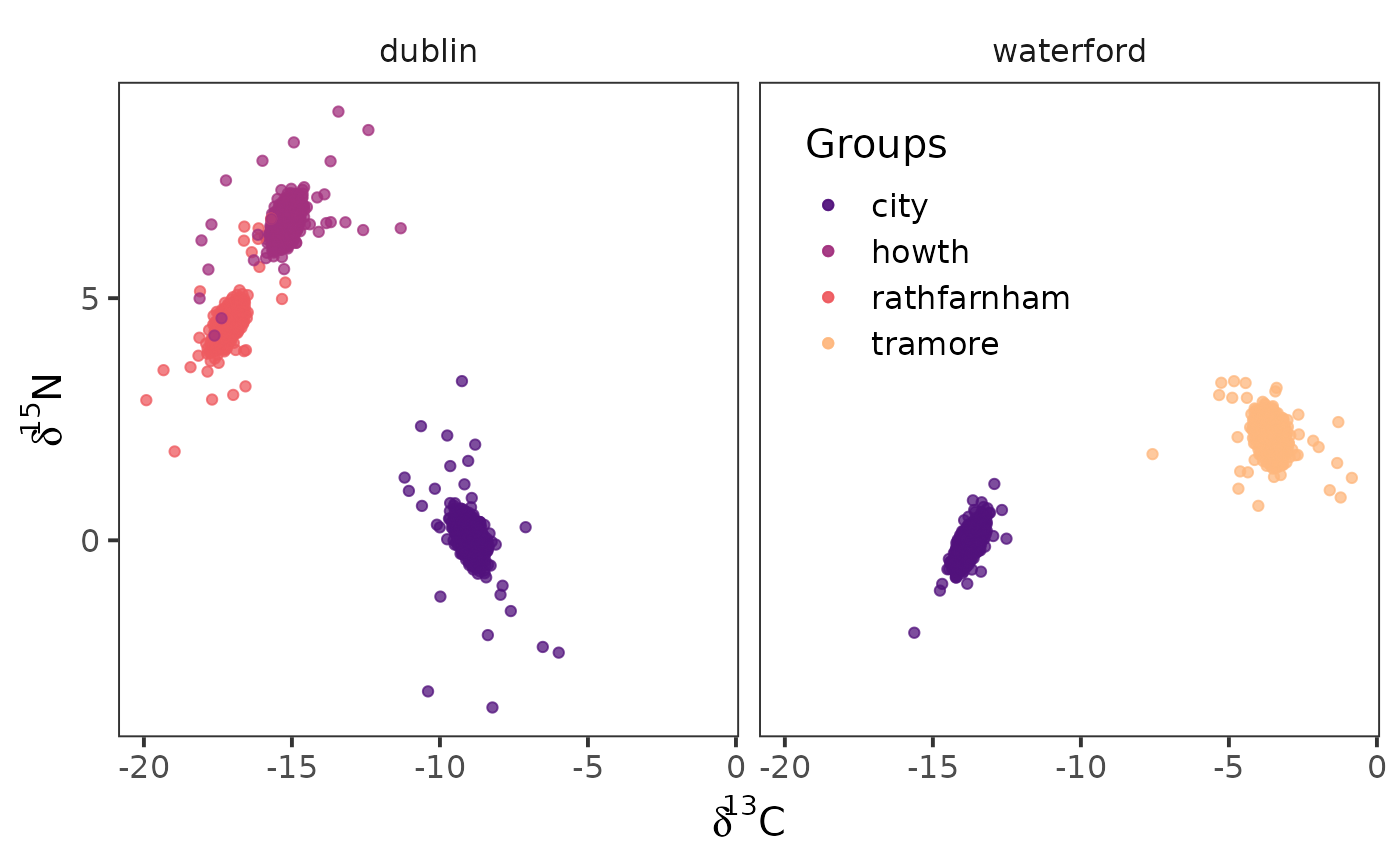
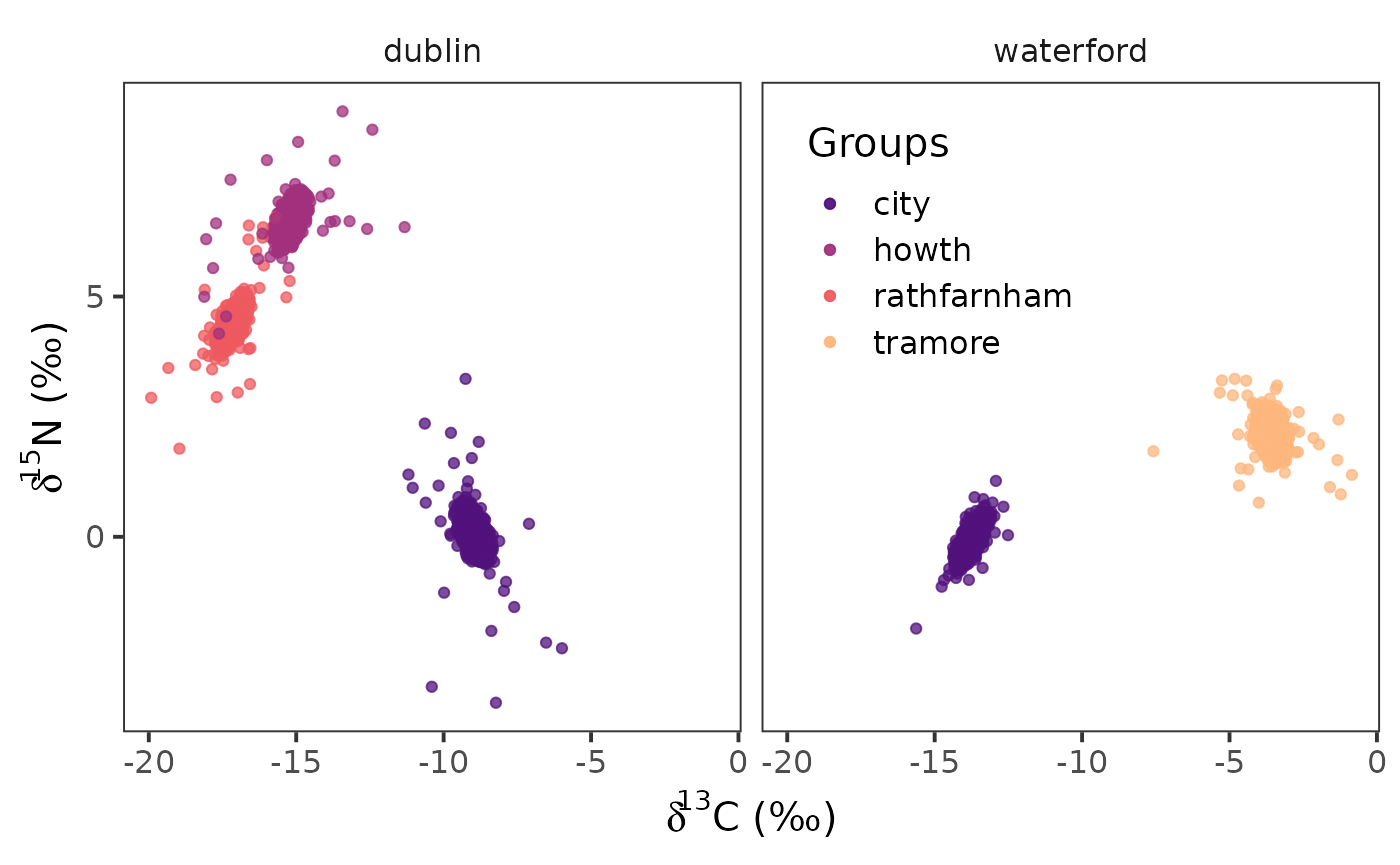
Deploying to gh-pages from @ benjaminhlina/nichetools@8fdd226af36e10927101df616561790b8ef6ce83 🚀

diff --git a/articles/using-nichetools-with-the-package-SIBER.html b/articles/using-nichetools-with-the-package-SIBER.html
@@ -61,7 +61,7 @@
                         <h4 data-toc-skip class="author">Benjamin L.
 Hlina</h4>
             
-            <h4 data-toc-skip class="date">Updated: 2024-08-06</h4>
+            <h4 data-toc-skip class="date">Updated: 2024-08-09</h4>
       
       <small class="dont-index">Source: <a href="https://github.com/benjaminhlina/nichetools/blob/main/vignettes/using-nichetools-with-the-package-SIBER.Rmd" class="external-link"><code>vignettes/using-nichetools-with-the-package-SIBER.Rmd</code></a></small>
       <div class="d-none name"><code>using-nichetools-with-the-package-SIBER.Rmd</code></div>
@@ -96,7 +96,7 @@ add labels, and arrange plots.</p>
 <p>I will add that many of the <a href="https://dplyr.tidyverse.org" class="external-link">dplyr</a> and
 <a href="https://tidyr.tidyverse.org" class="external-link">tidyr</a> functions and processes can be replaced using <a href="https://CRAN.R-project.org/package=data.table" class="external-link">{data.table}</a>
 which is great when working with large data sets.</p>
-<p>WE will first load the packages that were just mentioned</p>
+<p>We will first load the packages that were just mentioned</p>
 <div class="sourceCode" id="cb1"><pre class="downlit sourceCode r">
 <code class="sourceCode R"><span><span class="op">{</span></span>
 <span>  <span class="kw"><a href="https://rdrr.io/r/base/library.html" class="external-link">library</a></span><span class="op">(</span><span class="va"><a href="https://easystats.github.io/bayestestR/" class="external-link">bayestestR</a></span><span class="op">)</span></span>
@@ -111,15 +111,15 @@ which is great when working with large data sets.</p>
 <span><span class="op">}</span></span></code></pre></div>
 <p>For the purpose of the vignette we will be using the
 <code>demo.siber.data.2</code> data frame that is available within
-<code>{SIBER}</code>. We will first look at the structure of this
-dataframe using the <a href="https://dplyr.tidyverse.org" class="external-link">dplyr</a> function <code><a href="https://pillar.r-lib.org/reference/glimpse.html" class="external-link">glimpse()</a></code>
-For your purposes you will need to replace this with your data frame
-either by loading a csv, rds, or qs, with your data. You can do this
-multiple ways, I prefer using <code>readr::read_csv()</code> but base
-R’s <code><a href="https://rdrr.io/r/utils/read.table.html" class="external-link">read.csv()</a></code> works perfectly fine. Note,
-{<code>SIBER</code>} functions do not take <code>tibbles</code> or
-<code>data.tables</code> so you will have to convert either to
-<code>data.frames</code></p>
+<code>{SIBER}</code>. We will first look at the structure of this data
+frame using the <a href="https://dplyr.tidyverse.org" class="external-link">dplyr</a> function <code><a href="https://pillar.r-lib.org/reference/glimpse.html" class="external-link">glimpse()</a></code> For
+your purposes you will need to replace this with your data frame either
+by loading a csv, rds, or qs. You can do this multiple ways, I prefer
+using <code>readr::read_csv()</code> but base R’s
+<code><a href="https://rdrr.io/r/utils/read.table.html" class="external-link">read.csv()</a></code> works perfectly fine. Note, <code>{SIBER}</code>
+functions do not take <code>tibbles</code> or <code>data.tables</code>
+so you will have to convert either to <code>data.frame</code> class
+prior to running funcgtions in <code>{SIBER}</code>.</p>
 <div class="sourceCode" id="cb2"><pre class="downlit sourceCode r">
 <code class="sourceCode R"><span><span class="fu"><a href="https://pillar.r-lib.org/reference/glimpse.html" class="external-link">glimpse</a></span><span class="op">(</span><span class="va">demo.siber.data.2</span><span class="op">)</span></span>
 <span><span class="co">#&gt; Rows: 150</span></span>
@@ -128,18 +128,17 @@ R’s <code><a href="https://rdrr.io/r/utils/read.table.html" class="external-li
 <span><span class="co">#&gt; $ iso2      <span style="color: #949494; font-style: italic;">&lt;dbl&gt;</span> 1.02044315, 1.97597511, 3.28707260, -1.95750266, -3.11949113…</span></span>
 <span><span class="co">#&gt; $ group     <span style="color: #949494; font-style: italic;">&lt;chr&gt;</span> "city", "city", "city", "city", "city", "city", "city", "cit…</span></span>
 <span><span class="co">#&gt; $ community <span style="color: #949494; font-style: italic;">&lt;chr&gt;</span> "dublin", "dublin", "dublin", "dublin", "dublin", "dublin", …</span></span></code></pre></div>
-<p>You will notice that the community and group column are characters
-that are the names of the communities and groups. Similarly, you will
-likely have names associated with the communities and groups you are
-working with, instead of 1, 2, 3 ect. I advise changing them into
-factors thus allow you to know the order for each column. The reason why
-this is important, is that functions in <code>{SIBER}</code> use
-<code>for</code> loops based on the indexing of the
-<code>SiberObject</code>. If this order does not match up you can have
-issues with the names of the communities and groups you are working
-with. I think it isas you will likely have names associated with the
-communities and groups you are working with.</p>
-<p>So first I change these into factors, then I preserve the column and
+<p>You will notice that the community and group column are character
+strings that are the actual names of the communities and groups.
+Similarly, you will likely have names associated with the communities
+and groups you are working with, instead of 1, 2, 3 ect. I advise
+changing them into factors thus allow you to know the order for each
+column. The reason why this is important, is that functions in
+<code>{SIBER}</code> use <code>for</code> loops based on the indexing of
+the <code>SiberObject</code>. If this order does not match up you can
+have issues with the names of the communities and groups you are working
+with.</p>
+<p>So first, change these into factors, then preserve the column and
 create an id column that is the numerical order that will become the
 community and group names fed to <code><a href="https://rdrr.io/pkg/SIBER/man/createSiberObject.html" class="external-link">createSiberObject()</a></code>.</p>
 <div class="sourceCode" id="cb3"><pre class="downlit sourceCode r">
@@ -162,15 +161,15 @@ community and group names fed to <code><a href="https://rdrr.io/pkg/SIBER/man/cr
 <span><span class="co">#&gt; $ community    <span style="color: #949494; font-style: italic;">&lt;fct&gt;</span> dublin, dublin, dublin, dublin, dublin, dublin, dublin, d…</span></span>
 <span><span class="co">#&gt; $ group_id     <span style="color: #949494; font-style: italic;">&lt;chr&gt;</span> "1", "1", "1", "1", "1", "1", "1", "1", "1", "1", "1", "1…</span></span>
 <span><span class="co">#&gt; $ community_id <span style="color: #949494; font-style: italic;">&lt;chr&gt;</span> "1", "1", "1", "1", "1", "1", "1", "1", "1", "1", "1", "1…</span></span></code></pre></div>
-<p>After we have done this we are going to create two data frames that
+<p>After we have done this, we are going to create two data frames that
 are the names of our communities and groups with their associated id
-values. We will use these data frames later on to join up the names,
-allowing us to know what estimates belong to which communities and
-groups, preserving the names that we have assigned them. Again this is
-done because it is unlikely you will have communities and groups named
-1, 2, 3 ect. and instead will have actual names.</p>
+values. We will use these data frames later on to join up the actual
+names, allowing us to know what estimates belong to which communities
+and groups, preserving the names that we have originally assigned them.
+Again this is done because it is unlikely you will have communities and
+groups named 1, 2, 3 ect. and instead will have actual names.</p>
 <div class="sourceCode" id="cb4"><pre class="downlit sourceCode r">
-<code class="sourceCode R"><span><span class="co"># ---- create name with group and community dataframe ----</span></span>
+<code class="sourceCode R"><span><span class="co"># ---- create name with group and community data frame ----</span></span>
 <span><span class="va">cg_names</span> <span class="op">&lt;-</span> <span class="va">demo.siber.data.2</span> <span class="op"><a href="https://magrittr.tidyverse.org/reference/pipe.html" class="external-link">%&gt;%</a></span></span>
 <span>  <span class="fu"><a href="https://dplyr.tidyverse.org/reference/distinct.html" class="external-link">distinct</a></span><span class="op">(</span><span class="va">group</span>,</span>
 <span>           <span class="va">community</span>, </span>
@@ -178,13 +177,13 @@ done because it is unlikely you will have communities and groups named
 <span>           <span class="va">community_id</span><span class="op">)</span> <span class="op"><a href="https://magrittr.tidyverse.org/reference/pipe.html" class="external-link">%&gt;%</a></span></span>
 <span>  <span class="fu"><a href="https://dplyr.tidyverse.org/reference/arrange.html" class="external-link">arrange</a></span><span class="op">(</span><span class="va">community</span>, <span class="va">group</span><span class="op">)</span></span>
 <span></span>
-<span><span class="co"># ---- create community names dataframe ---- </span></span>
+<span><span class="co"># ---- create community names data frame ---- </span></span>
 <span><span class="va">c_names</span> <span class="op">&lt;-</span> <span class="va">demo.siber.data.2</span> <span class="op"><a href="https://magrittr.tidyverse.org/reference/pipe.html" class="external-link">%&gt;%</a></span> </span>
 <span>  <span class="fu"><a href="https://dplyr.tidyverse.org/reference/distinct.html" class="external-link">distinct</a></span><span class="op">(</span><span class="va">community</span>, </span>
 <span>           <span class="va">community_id</span><span class="op">)</span> <span class="op"><a href="https://magrittr.tidyverse.org/reference/pipe.html" class="external-link">%&gt;%</a></span></span>
 <span>  <span class="fu"><a href="https://dplyr.tidyverse.org/reference/arrange.html" class="external-link">arrange</a></span><span class="op">(</span><span class="va">community</span><span class="op">)</span></span></code></pre></div>
 <p>We will then plot our biplot to confirm we have the correct
-stucture.</p>
+structure.</p>
 <div class="sourceCode" id="cb5"><pre class="downlit sourceCode r">
 <code class="sourceCode R"><span><span class="fu"><a href="https://ggplot2.tidyverse.org/reference/ggplot.html" class="external-link">ggplot</a></span><span class="op">(</span>data <span class="op">=</span> <span class="va">demo.siber.data.2</span>, <span class="fu"><a href="https://ggplot2.tidyverse.org/reference/aes.html" class="external-link">aes</a></span><span class="op">(</span>x <span class="op">=</span> <span class="va">iso1</span>, y <span class="op">=</span> <span class="va">iso2</span>,</span>
 <span>                             colour <span class="op">=</span> <span class="va">group</span><span class="op">)</span><span class="op">)</span> <span class="op">+</span></span>
@@ -202,18 +201,20 @@ stucture.</p>
 <span>    legend.position.inside <span class="op">=</span> <span class="fu"><a href="https://rdrr.io/r/base/c.html" class="external-link">c</a></span><span class="op">(</span><span class="fl">0.65</span>, <span class="fl">0.75</span><span class="op">)</span></span>
 <span>  <span class="op">)</span> <span class="op">+</span> </span>
 <span>  <span class="fu"><a href="https://ggplot2.tidyverse.org/reference/labs.html" class="external-link">labs</a></span><span class="op">(</span></span>
-<span>    x <span class="op">=</span> <span class="fu"><a href="https://rdrr.io/r/base/expression.html" class="external-link">expression</a></span><span class="op">(</span><span class="fu"><a href="https://rdrr.io/r/base/paste.html" class="external-link">paste</a></span><span class="op">(</span><span class="va">delta</span><span class="op">^</span><span class="fl">13</span>,<span class="st">"C"</span><span class="op">)</span><span class="op">)</span>, </span>
-<span>    y <span class="op">=</span> <span class="fu"><a href="https://rdrr.io/r/base/expression.html" class="external-link">expression</a></span><span class="op">(</span><span class="fu"><a href="https://rdrr.io/r/base/paste.html" class="external-link">paste</a></span><span class="op">(</span><span class="va">delta</span><span class="op">^</span><span class="fl">15</span>,<span class="st">"N"</span><span class="op">)</span><span class="op">)</span> </span>
+<span>    x <span class="op">=</span> <span class="fu"><a href="https://rdrr.io/r/base/expression.html" class="external-link">expression</a></span><span class="op">(</span><span class="fu"><a href="https://rdrr.io/r/base/paste.html" class="external-link">paste</a></span><span class="op">(</span><span class="va">delta</span><span class="op">^</span><span class="fl">13</span>,<span class="st">"C (‰)"</span><span class="op">)</span><span class="op">)</span>, </span>
+<span>    y <span class="op">=</span> <span class="fu"><a href="https://rdrr.io/r/base/expression.html" class="external-link">expression</a></span><span class="op">(</span><span class="fu"><a href="https://rdrr.io/r/base/paste.html" class="external-link">paste</a></span><span class="op">(</span><span class="va">delta</span><span class="op">^</span><span class="fl">15</span>,<span class="st">"N (‰)"</span><span class="op">)</span><span class="op">)</span> </span>
 <span>  <span class="op">)</span></span></code></pre></div>
 <p><img src="using-nichetools-with-the-package-SIBER_files/figure-html/unnamed-chunk-6-1.png" width="100%"></p>
 <p>Next we will grab the isotopes we need and the community and group
-ids, will will then rename them to community and group. This is
-important as <code>creatSiberObject()</code> will 1) only take the
-following order with the following names <code>iso1</code>,
-<code>iso2</code>, <code>group</code>, <code>community</code> and 2) we
-will transform this <code>tibble</code> into a <code>data.frame</code>.
-In this case we were using tibbles but we could also be working with
-<code>data.table</code> and will need to do the same thing.</p>
+ids, and we will rename them to <code>community</code> and
+<code>group</code>. This is important as <code>creatSiberObject()</code>
+will 1) only take the following order with the following names
+<code>iso1</code>, <code>iso2</code>, <code>group</code>, and
+<code>community</code> and 2) we will transform this <code>tibble</code>
+into a <code>data.frame</code> as <code>{SIBER}</code> will only work
+with <code>data.frame</code>. In this case we were using tibbles but we
+could also be working with <code>data.table</code> and will need to do
+the same thing.</p>
 <div class="sourceCode" id="cb6"><pre class="downlit sourceCode r">
 <code class="sourceCode R"><span><span class="va">demo_siber_data</span> <span class="op">&lt;-</span> <span class="va">demo.siber.data.2</span> <span class="op"><a href="https://magrittr.tidyverse.org/reference/pipe.html" class="external-link">%&gt;%</a></span> </span>
 <span>  <span class="fu">dplyr</span><span class="fu">::</span><span class="fu"><a href="https://dplyr.tidyverse.org/reference/select.html" class="external-link">select</a></span><span class="op">(</span><span class="va">iso1</span>, <span class="va">iso2</span>, <span class="va">group_id</span>, <span class="va">community_id</span><span class="op">)</span> <span class="op"><a href="https://magrittr.tidyverse.org/reference/pipe.html" class="external-link">%&gt;%</a></span> </span>
@@ -226,14 +227,14 @@ In this case we were using tibbles but we could also be working with
 <div class="section level3">
 <h3 id="convert-to-siber-object">Convert to {SIBER} object<a class="anchor" aria-label="anchor" href="#convert-to-siber-object"></a>
 </h3>
-<p>We will convert to a {SIBER} object, once we have the {SIBER} object
-we can start our analysis.</p>
+<p>We will convert to a <code>{SIBER}</code> object, once we have the
+<code>{SIBER}</code> object we can start our analysis.</p>
 <div class="sourceCode" id="cb7"><pre class="downlit sourceCode r">
 <code class="sourceCode R"><span><span class="va">siber_example</span> <span class="op">&lt;-</span> <span class="fu"><a href="https://rdrr.io/pkg/SIBER/man/createSiberObject.html" class="external-link">createSiberObject</a></span><span class="op">(</span><span class="va">demo_siber_data</span><span class="op">)</span></span></code></pre></div>
-<p>Now that we have converted this to a {SIBER} object we can start
-doing some analysis using a Bayesian framework and extracting the
-different metrics this analysis produces using functions from
-{nichetools}.</p>
+<p>Now that we have converted this to a <code>{SIBER}</code> object we
+can start doing some analysis using a Bayesian framework. The data and
+metrics generated through this analysis by <code>{SIBER}</code> can be
+extracted using functions in <a href="https://benjaminhlina.github.io/nichetools/">nichetools</a>.</p>
 </div>
 <div class="section level3">
 <h3 id="bayesian-ellipse-analysis">Bayesian Ellipse Analysis<a class="anchor" aria-label="anchor" href="#bayesian-ellipse-analysis"></a>
@@ -270,17 +271,17 @@ covariance matrix
 </h3>
 <p>We will first extract posterior distribution for
 <math display="inline" xmlns="http://www.w3.org/1998/Math/MathML"><semantics><mi>μ</mi><annotation encoding="application/x-tex">\mu</annotation></semantics></math>
-using <code><a href="../reference/extract_mu.html">extract_mu()</a></code> in {nichetools}. We will need to set the
-argument <code>pkg</code> to <code>"SIBER"</code> and because of what we
-are going to do with the data afterwards. We are going to set
-<code>data_format</code> to <code>"wide"</code>. This argument takes
-<code>"long"</code> or <code>"wide"</code> which dictates whether the
-data object returned is in wide or long format. We will also use the
-function <code>seperate_wider_delim()</code> from {tidyr} to seperate
-teh community and groups names as they are joined by a <code>.</code>.
-We then will use <code><a href="https://dplyr.tidyverse.org/reference/mutate-joins.html" class="external-link">left_join()</a></code> and the <code>cg_names</code>
-data frame we created above to add in the correct community and group
-names.</p>
+using <code><a href="../reference/extract_mu.html">extract_mu()</a></code> in <a href="https://benjaminhlina.github.io/nichetools/">nichetools</a>. We will
+need to set the argument <code>pkg</code> to <code>"SIBER"</code> and
+because of what we are going to do with the data afterwards. We are
+going to set <code>data_format</code> to <code>"wide"</code>. This
+argument takes <code>"long"</code> or <code>"wide"</code> which dictates
+whether the data object returned is in wide or long format. We will also
+use the function <code>seperate_wider_delim()</code> from {tidyr} to
+seperate the community and groups names as they are joined by a
+<code>.</code>. We then will use <code><a href="https://dplyr.tidyverse.org/reference/mutate-joins.html" class="external-link">left_join()</a></code> and the
+<code>cg_names</code> data frame we created above to add in the correct
+community and group names.</p>
 <div class="sourceCode" id="cb11"><pre class="downlit sourceCode r">
 <code class="sourceCode R"><span><span class="va">df_mu</span> <span class="op">&lt;-</span> <span class="fu"><a href="../reference/extract_mu.html">extract_mu</a></span><span class="op">(</span><span class="va">ellipses_posterior</span>, pkg <span class="op">=</span> <span class="st">"SIBER"</span>, </span>
 <span>                    data_format <span class="op">=</span> <span class="st">"wide"</span><span class="op">)</span> <span class="op"><a href="https://magrittr.tidyverse.org/reference/pipe.html" class="external-link">%&gt;%</a></span></span>
@@ -310,14 +311,16 @@ are correct by plotting them with {ggplot2}</p>
 <span>    legend.position.inside <span class="op">=</span> <span class="fu"><a href="https://rdrr.io/r/base/c.html" class="external-link">c</a></span><span class="op">(</span><span class="fl">0.65</span>, <span class="fl">0.75</span><span class="op">)</span></span>
 <span>  <span class="op">)</span> <span class="op">+</span> </span>
 <span>  <span class="fu"><a href="https://ggplot2.tidyverse.org/reference/labs.html" class="external-link">labs</a></span><span class="op">(</span></span>
-<span>    x <span class="op">=</span> <span class="fu"><a href="https://rdrr.io/r/base/expression.html" class="external-link">expression</a></span><span class="op">(</span><span class="fu"><a href="https://rdrr.io/r/base/paste.html" class="external-link">paste</a></span><span class="op">(</span><span class="va">delta</span><span class="op">^</span><span class="fl">13</span>,<span class="st">"C"</span><span class="op">)</span><span class="op">)</span>, </span>
-<span>    y <span class="op">=</span> <span class="fu"><a href="https://rdrr.io/r/base/expression.html" class="external-link">expression</a></span><span class="op">(</span><span class="fu"><a href="https://rdrr.io/r/base/paste.html" class="external-link">paste</a></span><span class="op">(</span><span class="va">delta</span><span class="op">^</span><span class="fl">15</span>,<span class="st">"N"</span><span class="op">)</span><span class="op">)</span> </span>
+<span>    x <span class="op">=</span> <span class="fu"><a href="https://rdrr.io/r/base/expression.html" class="external-link">expression</a></span><span class="op">(</span><span class="fu"><a href="https://rdrr.io/r/base/paste.html" class="external-link">paste</a></span><span class="op">(</span><span class="va">delta</span><span class="op">^</span><span class="fl">13</span>,<span class="st">"C (‰)"</span><span class="op">)</span><span class="op">)</span>, </span>
+<span>    y <span class="op">=</span> <span class="fu"><a href="https://rdrr.io/r/base/expression.html" class="external-link">expression</a></span><span class="op">(</span><span class="fu"><a href="https://rdrr.io/r/base/paste.html" class="external-link">paste</a></span><span class="op">(</span><span class="va">delta</span><span class="op">^</span><span class="fl">15</span>,<span class="st">"N (‰)"</span><span class="op">)</span><span class="op">)</span> </span>
 <span>  <span class="op">)</span></span></code></pre></div>
 <p><img src="using-nichetools-with-the-package-SIBER_files/figure-html/unnamed-chunk-13-1.png" width="100%"></p>
-<p>Notice how there is a density of points in the center of the raw data
-with the corresponding colours. This indicates that how the model is
-iterating over the groups and communities we have the nameing of
-commnites and groups correct.</p>
+<p>Notice the density of points in the center of the raw data with the
+corresponding colours. This density of points are the posterior
+estimates from the model for
+<math display="inline" xmlns="http://www.w3.org/1998/Math/MathML"><semantics><mi>μ</mi><annotation encoding="application/x-tex">\mu</annotation></semantics></math>
+and are an indication that the model is iterating over the groups and
+communities correctly.</p>
 <p>We are also going to extract
 <math display="inline" xmlns="http://www.w3.org/1998/Math/MathML"><semantics><mi>μ</mi><annotation encoding="application/x-tex">\mu</annotation></semantics></math>
 in long format for creating ellipse, as the functions that create
@@ -342,9 +345,13 @@ and
 estimate to <code><a href="../reference/niche_ellipse.html">niche_ellipse()</a></code> to estimate each ellipse. There
 are few things to know about this function and they include the
 following: 1) it will randomly sample 10 ellipse from the total
-estimates, this seems quite standard, however you can adjust the number
-of samples by changing the argument <code>n</code>. 2) to maake the
-function consistently randomly sample the same set you will need to set
+posterior disturbitons of
+<math display="inline" xmlns="http://www.w3.org/1998/Math/MathML"><semantics><mi>μ</mi><annotation encoding="application/x-tex">\mu</annotation></semantics></math>
+and
+<math display="inline" xmlns="http://www.w3.org/1998/Math/MathML"><semantics><mi>Σ</mi><annotation encoding="application/x-tex">\Sigma</annotation></semantics></math>,
+this seems quite standard, however you can adjust the number of samples
+by changing the argument <code>n</code>. 2) to make the function
+consistently randomly sample the same set you will need to set
 <code>set_seed</code> to a numerical value. If this is not set then it
 will randomly sample a different set of 10 ellipses every time. 3) if
 you would like the function to not randomly sample set the argument
@@ -387,7 +394,12 @@ level of the ellipse you can do so using the argument
 <span>    x <span class="op">=</span> <span class="fu"><a href="https://rdrr.io/r/base/expression.html" class="external-link">expression</a></span><span class="op">(</span><span class="fu"><a href="https://rdrr.io/r/base/paste.html" class="external-link">paste</a></span><span class="op">(</span><span class="va">delta</span><span class="op">^</span><span class="fl">13</span>,<span class="st">"C"</span><span class="op">)</span><span class="op">)</span>, </span>
 <span>    y <span class="op">=</span> <span class="fu"><a href="https://rdrr.io/r/base/expression.html" class="external-link">expression</a></span><span class="op">(</span><span class="fu"><a href="https://rdrr.io/r/base/paste.html" class="external-link">paste</a></span><span class="op">(</span><span class="va">delta</span><span class="op">^</span><span class="fl">15</span>,<span class="st">"N"</span><span class="op">)</span><span class="op">)</span> </span>
 <span>  <span class="op">)</span></span></code></pre></div>
-<p><img src="using-nichetools-with-the-package-SIBER_files/figure-html/unnamed-chunk-17-1.png" width="700"></p>
+<p><img src="using-nichetools-with-the-package-SIBER_files/figure-html/unnamed-chunk-17-1.png" width="700">
+### Niche Similarties</p>
+</div>
+<div class="section level3">
+<h3 id="bayesian-estimates-of-community-metrics">Bayesian Estimates of Community Metrics<a class="anchor" aria-label="anchor" href="#bayesian-estimates-of-community-metrics"></a>
+</h3>
 </div>
   </main><aside class="col-md-3"><nav id="toc" aria-label="Table of contents"><h2>On this page</h2>
     </nav></aside>

diff --git a/reference/niche_ellipse.html b/reference/niche_ellipse.html
@@ -133,7 +133,7 @@ and <code><a href="extract_sigma.html">extract_sigma()</a></code></p></div>
     <h2 id="ref-examples">Examples<a class="anchor" aria-label="anchor" href="#ref-examples"></a></h2>
     <div class="sourceCode"><pre class="sourceCode r"><code><span class="r-in"><span><span class="fu">niche_ellipse</span><span class="op">(</span>dat_mu <span class="op">=</span> <span class="va">mu_est_long</span>,</span></span>
 <span class="r-in"><span>              dat_sigma <span class="op">=</span> <span class="va">sigma_est_wide</span><span class="op">)</span></span></span>
-<span class="r-msg co"><span class="r-pr">#&gt;</span> → Total time processing was 0.07 secs</span>
+<span class="r-msg co"><span class="r-pr">#&gt;</span> → Total time processing was 0.06 secs</span>
 <span class="r-out co"><span class="r-pr">#&gt;</span> <span style="color: #949494;"># A tibble: 4,000 × 4</span></span>
 <span class="r-out co"><span class="r-pr">#&gt;</span>    sample_name sample_number  d13c  d15n</span>
 <span class="r-out co"><span class="r-pr">#&gt;</span>    <span style="color: #949494; font-style: italic;">&lt;chr&gt;</span>               <span style="color: #949494; font-style: italic;">&lt;dbl&gt;</span> <span style="color: #949494; font-style: italic;">&lt;dbl&gt;</span> <span style="color: #949494; font-style: italic;">&lt;dbl&gt;</span></span>

diff --git a/articles/using-nichetools-with-the-package-nicheROVER.html b/articles/using-nichetools-with-the-package-nicheROVER.html
@@ -61,7 +61,7 @@
                         <h4 data-toc-skip class="author">Benjamin L.
 Hlina</h4>
             
-            <h4 data-toc-skip class="date">Updated: 2024-08-06</h4>
+            <h4 data-toc-skip class="date">Updated: 2024-08-09</h4>
       
       <small class="dont-index">Source: <a href="https://github.com/benjaminhlina/nichetools/blob/main/vignettes/using-nichetools-with-the-package-nicheROVER.Rmd" class="external-link"><code>vignettes/using-nichetools-with-the-package-nicheROVER.Rmd</code></a></small>
       <div class="d-none name"><code>using-nichetools-with-the-package-nicheROVER.Rmd</code></div>
